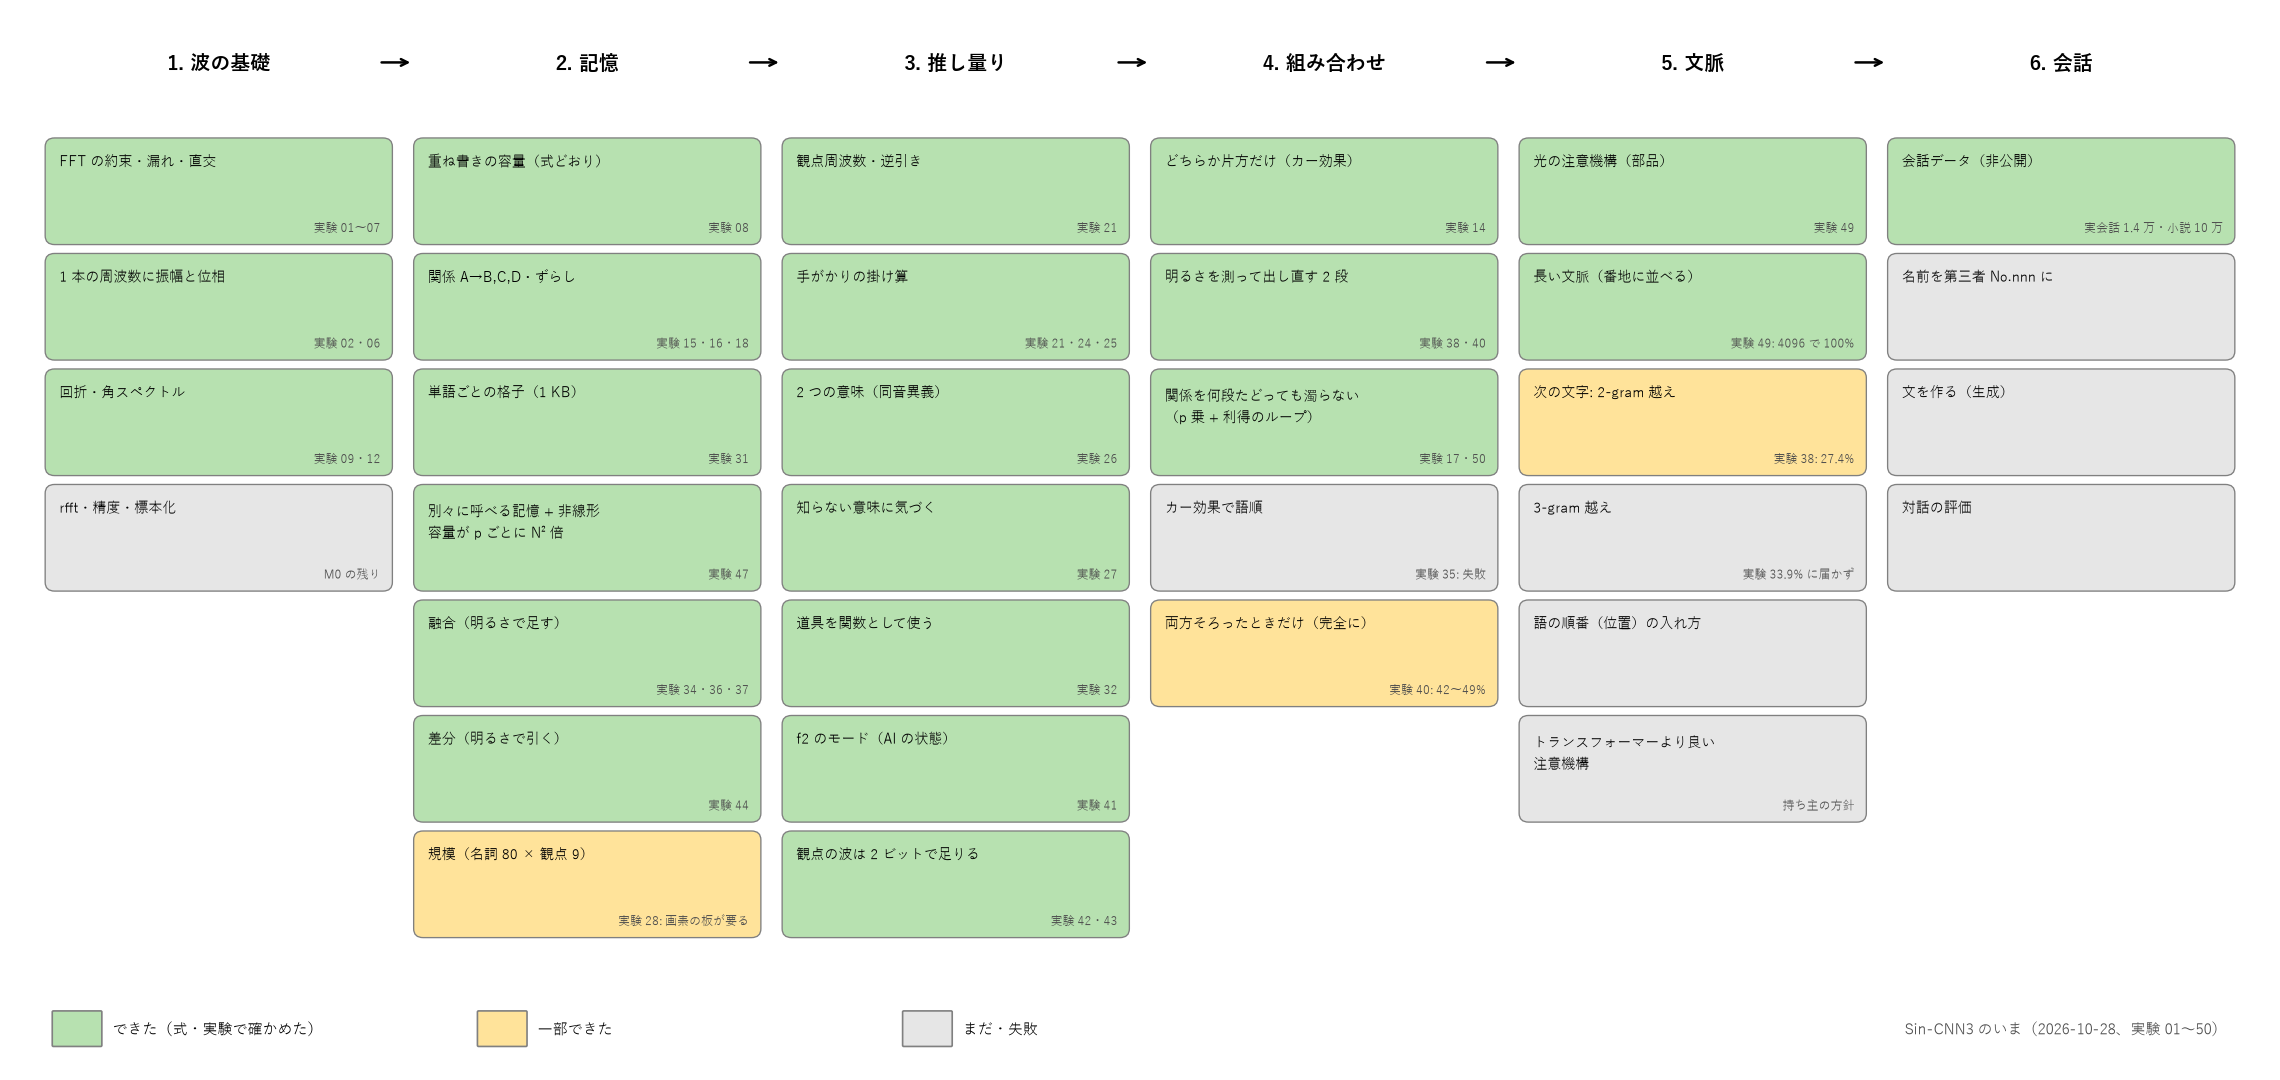
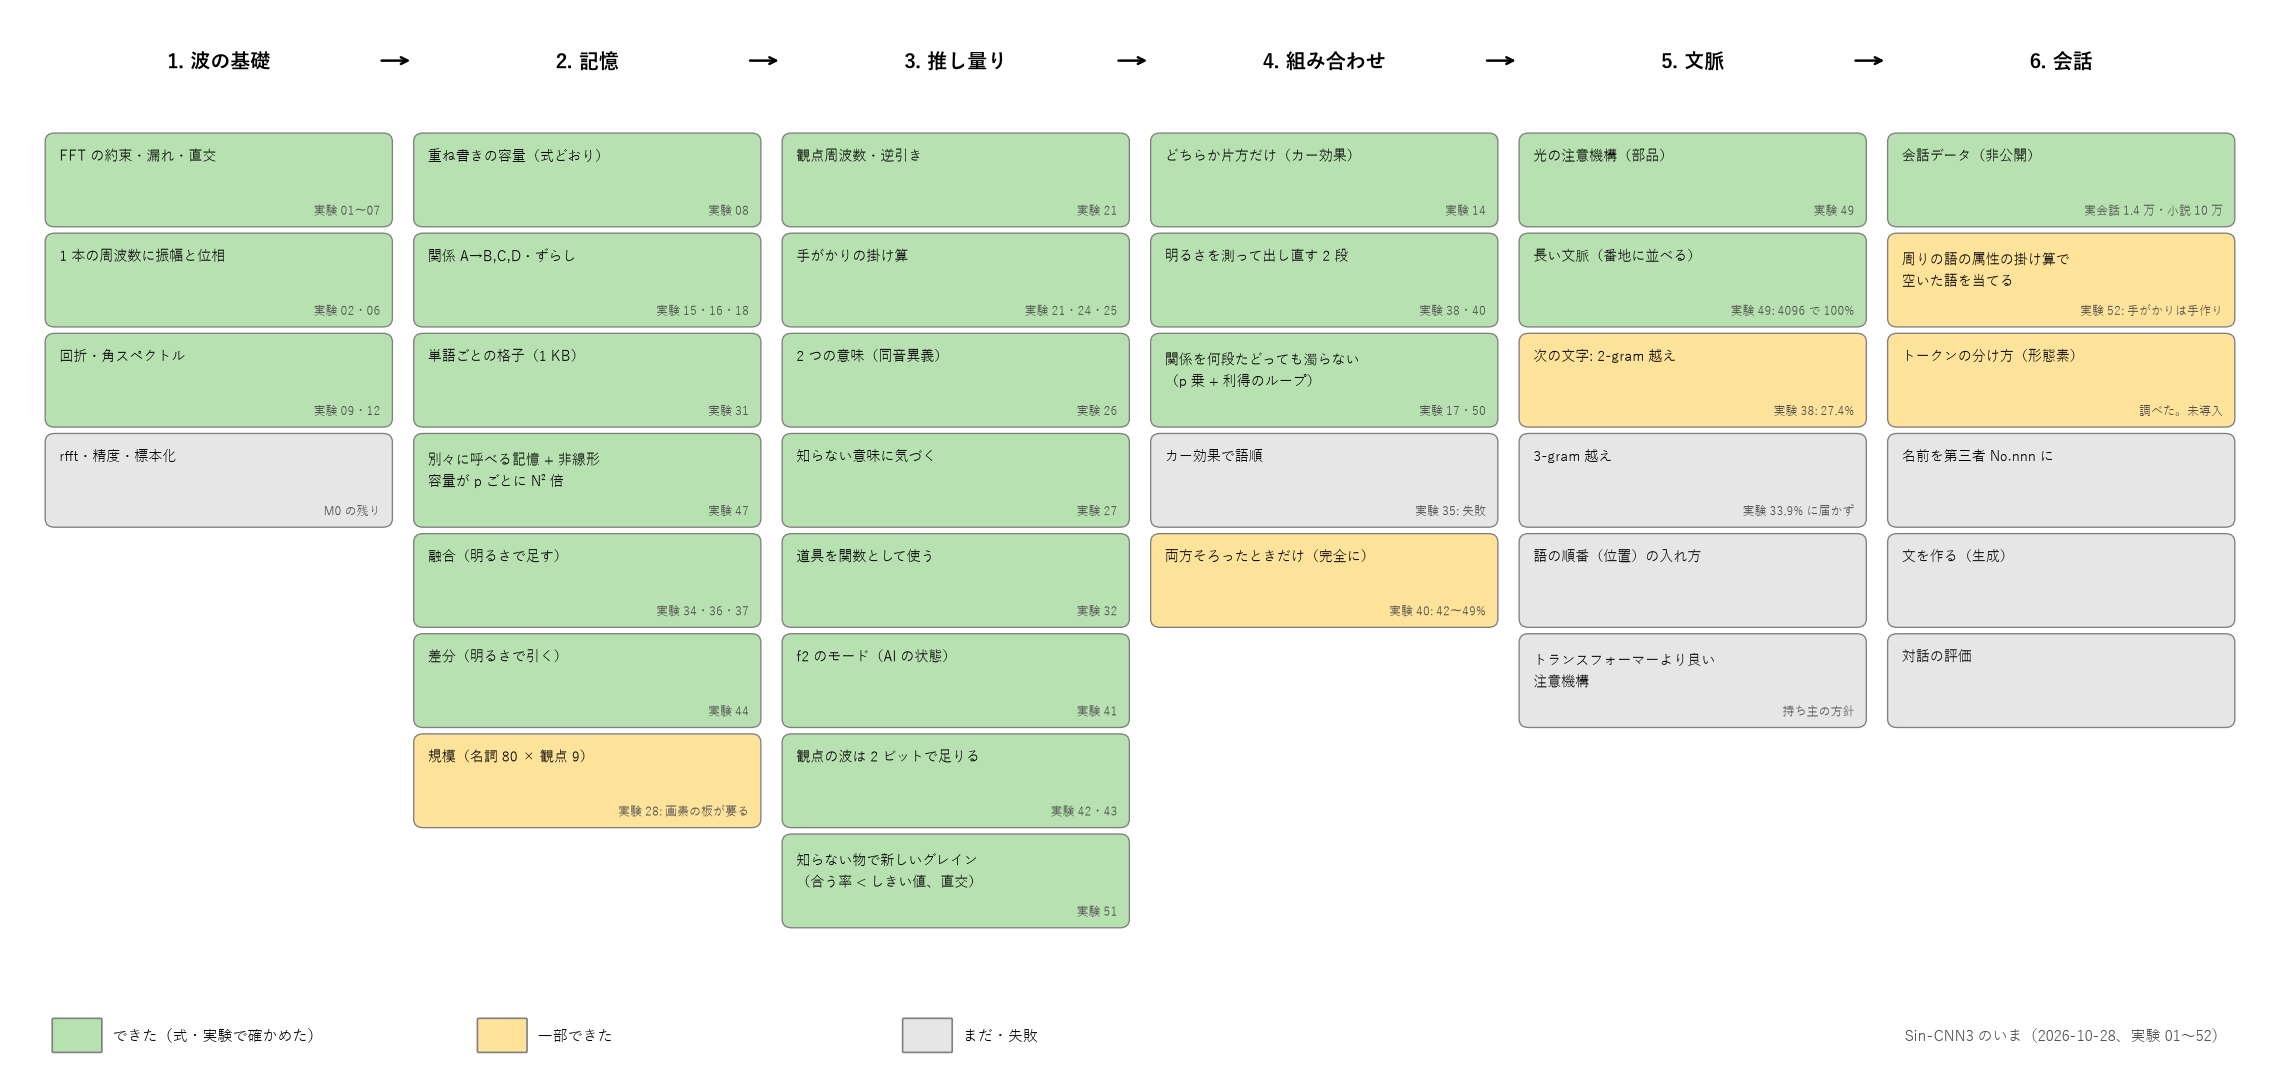
現状マップの図を直す（実験51・52 を追加、文字列の改行の誤り）

diff --git a/tools/fig_status_map.py b/tools/fig_status_map.py
@@ -10,15 +10,13 @@ OK, PART, TODO = "#b7e1b0", "#ffe39a", "#e6e6e6"
 COLS = [
     ("1. 波の基礎", [("FFT の約束・漏れ・直交", OK, "01〜07"), ("1 本の周波数に振幅と位相", OK, "02・06"), ("回折・角スペクトル", OK, "09・12"), ("rfft・精度・標本化", TODO, "M0 の残り")]),
     ("2. 記憶", [("重ね書きの容量（式どおり）", OK, "08"), ("関係 A→B,C,D・ずらし", OK, "15・16・18"), ("単語ごとの格子（1 KB）", OK, "31"), ("別々に呼べる記憶 + 非線形\n容量が p ごとに N² 倍", OK, "47"), ("融合（明るさで足す）", OK, "34・36・37"), ("差分（明るさで引く）", OK, "44"), ("規模（名詞 80 × 観点 9）", PART, "28: 画素の板が要る")]),
-    ("3. 推し量り", [("観点周波数・逆引き", OK, "21"), ("手がかりの掛け算", OK, "21・24・25"), ("2 つの意味（同音異義）", OK, "26"), ("知らない意味に気づく", OK, "27"), ("道具を関数として使う", OK, "32"), ("f2 のモード（AI の状態）", OK, "41"), ("観点の波は 2 ビットで足りる", OK, "42・43"), ("知らない物で新しいグレイン
-（合う率 < しきい値、直交）", OK, "51")]),
+    ("3. 推し量り", [("観点周波数・逆引き", OK, "21"), ("手がかりの掛け算", OK, "21・24・25"), ("2 つの意味（同音異義）", OK, "26"), ("知らない意味に気づく", OK, "27"), ("道具を関数として使う", OK, "32"), ("f2 のモード（AI の状態）", OK, "41"), ("観点の波は 2 ビットで足りる", OK, "42・43"), ("知らない物で新しいグレイン\n（合う率 < しきい値、直交）", OK, "51")]),
     ("4. 組み合わせ", [("どちらか片方だけ（カー効果）", OK, "14"), ("明るさを測って出し直す 2 段", OK, "38・40"), ("関係を何段たどっても濁らない\n（p 乗 + 利得のループ）", OK, "17・50"), ("カー効果で語順", TODO, "35: 失敗"), ("両方そろったときだけ（完全に）", PART, "40: 42〜49%")]),
     ("5. 文脈", [("光の注意機構（部品）", OK, "49"), ("長い文脈（番地に並べる）", OK, "49: 4096 で 100%"), ("次の文字: 2-gram 越え", PART, "38: 27.4%"), ("3-gram 越え", TODO, "33.9% に届かず"), ("語の順番（位置）の入れ方", TODO, ""), ("トランスフォーマーより良い\n注意機構", TODO, "持ち主の方針")]),
-    ("6. 会話", [("会話データ（非公開）", OK, "実会話 1.4 万・小説 10 万"), ("周りの語の属性の掛け算で
-空いた語を当てる", PART, "52: 手がかりは手作り"), ("トークンの分け方（形態素）", PART, "調べた。未導入"), ("名前を第三者 No.nnn に", TODO, ""), ("文を作る（生成）", TODO, ""), ("対話の評価", TODO, "")]),
+    ("6. 会話", [("会話データ（非公開）", OK, "実会話 1.4 万・小説 10 万"), ("周りの語の属性の掛け算で\n空いた語を当てる", PART, "52: 手がかりは手作り"), ("トークンの分け方（形態素）", PART, "調べた。未導入"), ("名前を第三者 No.nnn に", TODO, ""), ("文を作る（生成）", TODO, ""), ("対話の評価", TODO, "")]),
 ]
-fig, ax = plt.subplots(figsize=(19, 9), dpi=120); ax.set_xlim(0, 19); ax.set_ylim(0, 9.4); ax.axis("off")
-W, H, GAP = 2.9, 0.92, 0.12
+fig, ax = plt.subplots(figsize=(19, 9), dpi=120); ax.set_xlim(0, 19); ax.set_ylim(-0.4, 9.4); ax.axis("off")
+W, H, GAP = 2.9, 0.84, 0.1
 for c, (title, items) in enumerate(COLS):
     x = 0.25 + c * 3.12
     ax.text(x + W / 2, 9.0, title, ha="center", va="center", fontsize=12, fontweight="bold")
@@ -31,7 +29,7 @@ for c, (title, items) in enumerate(COLS):
     if c < len(COLS) - 1:
         ax.annotate("", (x + W + 0.2, 9.0), (x + W - 0.1, 9.0), arrowprops=dict(arrowstyle="->", lw=1.5))
 for i, (col, lab) in enumerate([(OK, "できた（式・実験で確かめた）"), (PART, "一部できた"), (TODO, "まだ・失敗")]):
-    ax.add_patch(FancyBboxPatch((0.3 + i * 3.6, 0.15), 0.4, 0.3, boxstyle="round,pad=0.01", fc=col, ec="0.5"))
-    ax.text(0.8 + i * 3.6, 0.3, lab, va="center", fontsize=9)
-ax.text(18.7, 0.3, "Sin-CNN3 のいま（2026-10-28、実験 01〜52）", ha="right", va="center", fontsize=9, color="0.3")
+    ax.add_patch(FancyBboxPatch((0.3 + i * 3.6, -0.3), 0.4, 0.3, boxstyle="round,pad=0.01", fc=col, ec="0.5"))
+    ax.text(0.8 + i * 3.6, -0.15, lab, va="center", fontsize=9)
+ax.text(18.7, -0.15, "Sin-CNN3 のいま（2026-10-28、実験 01〜52）", ha="right", va="center", fontsize=9, color="0.3")
 fig.tight_layout(); fig.savefig("docs/images/status_map.png")
